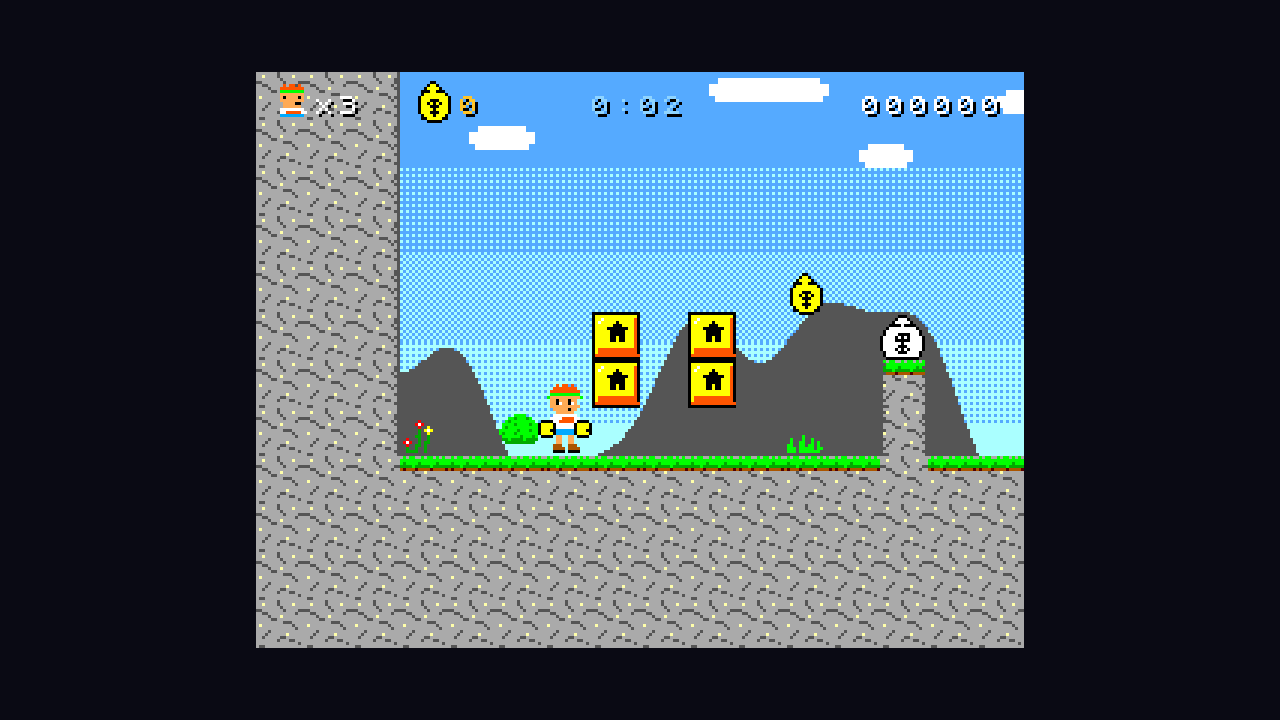
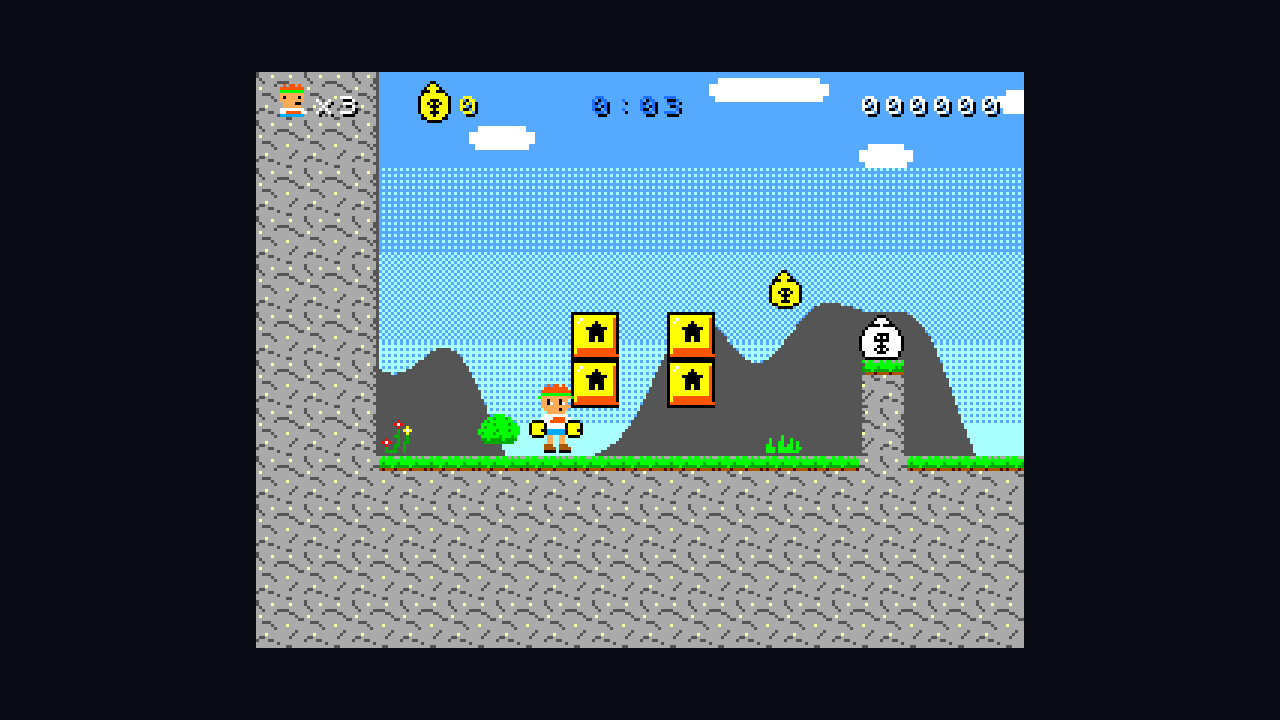
Pico Punch: levels 5-10 by design pass, engine fixes from playtests (knight reaction, safe respawn, vehicle remount, bot), SMS UI tints
Claude-Session: https://claude.ai/code/session_01UzaDEsZxm7ZvztTWUaRvfc

Changed region(s): [[0.1875, 0.0917, 0.8125, 0.9167], [0.5, 0.1222, 0.5312, 0.1833], [0.3438, 0.1222, 0.375, 0.1528]]

diff --git a/pico-punch/src/core/bot.js b/pico-punch/src/core/bot.js
@@ -13,7 +13,7 @@ export class Bot {
     this.frames++; const h = lv.hero; if (h.state === 'dead' || h.state === 'eat' || lv.state !== 'play') return;
     if (lv.deaths !== this.lastDeaths) { // renasceu: volta ao waypoint mais próximo já visitado
       this.lastDeaths = lv.deaths; let best = 0, bd = 1e9; for (let k = 0; k <= Math.min(this.i, this.path.length - 1); k++) { const w = this.path[k]; const d = Math.hypot(w.x - h.cx, w.y - h.bottom); if (d < bd) { bd = d; best = k; } }
-      this.i = bd < 48 ? best + 1 : 0; this.log.push(`respawn: retomando do waypoint ${this.i}`); this.jumpHold = 0;
+      this.i = bd < 96 ? best + 1 : 0; this.log.push(`respawn: retomando do waypoint ${this.i}`); this.jumpHold = 0;
     }
     const map = lv.map;
     // validação de colisão: o herói nunca deve estar dentro de um tile sólido
@@ -41,12 +41,12 @@ export class Bot {
     for (const e of lv.entities) { if (!e.punchable || e.remove || !e.active) continue; const ex = e.cx - h.cx, ey = e.cy - h.cy; if (Math.abs(ex) < 60 && Math.abs(ey) < 48 && (!nearest || Math.abs(ex) < Math.abs(nearest.cx - h.cx))) nearest = e; }
     if (nearest) {
       const ex = nearest.cx - h.cx; const edir = ex > 0 ? 1 : -1; const above = nearest.cy < h.y + 2;
-      if (above && Math.abs(ex) < 24) { T.left = T.right = false; if (this.punchCd <= 0) { T.up = true; T.punch = true; this.punchCd = 0.26; } threat = true; }
-      else if (Math.abs(ex) < 34 && Math.abs(nearest.cy - h.cy) < 30) { T.left = T.right = false; if (edir !== fx) { if (edir > 0) T.right = true; else T.left = true; } else if (this.punchCd <= 0) { T.punch = true; this.punchCd = 0.26; } threat = true; }
+      if (above && Math.abs(ex) < 24 && h.onGround) { T.left = T.right = false; if (this.punchCd <= 0) { T.up = true; T.punch = true; this.punchCd = 0.26; } threat = true; }
+      else if (Math.abs(ex) < 34 && Math.abs(nearest.cy - h.cy) < 30 && h.onGround) { T.left = T.right = false; if (edir !== fx) { if (edir > 0) T.right = true; else T.left = true; } else if (this.punchCd <= 0) { T.punch = true; this.punchCd = 0.26; } threat = true; }
     }
     const handX = h.cx + fx * 14, handY = h.y + 5;
     if (punchable(map.getAt(handX, handY)) || punchable(map.getAt(handX, h.y + h.h - 4))) threat = true;
-    if (threat && this.punchCd <= 0 && !nearest) { T.punch = true; this.punchCd = 0.32; }
+    if (threat && this.punchCd <= 0 && (!nearest || Math.abs(nearest.cx - h.cx) > 34)) { T.punch = true; this.punchCd = 0.32; }
     // pulo: parede, buraco, espinho, degrau, alvo acima
     if (h.onGround && this.jumpHold <= 0 && !retreating) {
       const aheadX = h.cx + dir * 12; const footY = h.bottom + 2;
@@ -58,6 +58,8 @@ export class Bot {
       const enemyClose = !!nearest && Math.abs(nearest.cx - h.cx) < 40 && !gapAhead;
       if ((wallAhead || (gapAhead && Math.abs(dx) > 10 && dy <= 24) || hazardAhead || targetAbove) && !enemyClose) { T.jump = true; this.jumpHold = targetAbove || gapAhead ? 0.32 : 0.2; }
     } else if (this.jumpHold > 0) { this.jumpHold -= dt; T.jump = true; }
+    if (T.jump && this.prevJump && h.onGround && this.jumpHold <= 0) T.jump = false; // solta por 1 frame para gerar nova borda (hit-stop pode engolir o 'pressed')
+    this.prevJump = T.jump;
     // detector de travamento: se não progride por 4 s, tenta pular
     if (Math.abs(h.x - this.lastX) < 0.5) { this.stuckT += dt; if (this.stuckT > 2.5) { T.jump = true; this.jumpHold = 0.3; if (this.stuckT > 4) { this.log.push(`travado em (${h.x.toFixed(0)},${h.y.toFixed(0)}) indo para waypoint ${this.i}`); this.stuckT = 0; } } } else this.stuckT = 0;
     this.lastX = h.x;

diff --git a/pico-punch/src/render/hud.js b/pico-punch/src/render/hud.js
@@ -7,15 +7,15 @@ export class Hud {
     this.lifeIcon = new Sprite(bank.sprite('life', 'f0')); this.lifeIcon.x = 4; this.lifeIcon.y = 2; this.root.addChild(this.lifeIcon);
     this.lives = new BitmapLine('×3', { tint: 0xffffff, shadow: true }); this.lives.x = 20; this.lives.y = 6; this.root.addChild(this.lives);
     this.bagIcon = new Sprite(bank.sprite('moneybag', 'f0')); this.bagIcon.x = 52; this.bagIcon.y = 2; this.root.addChild(this.bagIcon);
-    this.money = new BitmapLine('0', { tint: 0xffe066, shadow: true }); this.money.x = 68; this.money.y = 6; this.root.addChild(this.money);
+    this.money = new BitmapLine('0', { tint: 0xffff55, shadow: true }); this.money.x = 68; this.money.y = 6; this.root.addChild(this.money);
     this.score = new BitmapLine('000000', { tint: 0xffffff, shadow: true, align: 'right' }); this.score.y = 6; this.root.addChild(this.score);
-    this.time = new BitmapLine('0:00', { tint: 0xbfe9ff, shadow: true, align: 'center' }); this.time.y = 6; this.root.addChild(this.time);
+    this.time = new BitmapLine('0:00', { tint: 0x55aaff, shadow: true, align: 'center' }); this.time.y = 6; this.root.addChild(this.time);
     this.msg = new BitmapLine('', { tint: 0xffffff, shadow: true, align: 'center' }); this.msg.visible = false; this.root.addChild(this.msg);
-    this.msg2 = new BitmapLine('', { tint: 0xffe066, shadow: true, align: 'center' }); this.msg2.visible = false; this.root.addChild(this.msg2);
+    this.msg2 = new BitmapLine('', { tint: 0xffff55, shadow: true, align: 'center' }); this.msg2.visible = false; this.root.addChild(this.msg2);
     this.itemIcons = new Container(); this.root.addChild(this.itemIcons);
-    this.bossName = new BitmapLine('', { tint: 0xff8080, shadow: true, align: 'center', spacing: 7 }); this.bossName.visible = false; this.root.addChild(this.bossName);
-    this.bossHp = new BitmapLine('', { tint: 0xff6060, shadow: true, align: 'center' }); this.bossHp.visible = false; this.root.addChild(this.bossHp); this.bossRef = null;
-    this.brace = new BitmapLine('', { tint: 0x9ad0ff, shadow: true, align: 'right', spacing: 7 }); this.root.addChild(this.brace);
+    this.bossName = new BitmapLine('', { tint: 0xff5555, shadow: true, align: 'center', spacing: 7 }); this.bossName.visible = false; this.root.addChild(this.bossName);
+    this.bossHp = new BitmapLine('', { tint: 0xff5555, shadow: true, align: 'center' }); this.bossHp.visible = false; this.root.addChild(this.bossHp); this.bossRef = null;
+    this.brace = new BitmapLine('', { tint: 0x55aaff, shadow: true, align: 'right', spacing: 7 }); this.root.addChild(this.brace);
     this.icons = {}; for (const k of ['cape', 'ghostbuddy', 'eye']) { const sp = new Sprite(bank.sprite(k, 'f0')); sp.visible = false; this.itemIcons.addChild(sp); this.icons[k] = sp; }
   }
   layout(w, h) { this.bossName.x = Math.round(w / 2); this.bossName.y = 18; this.bossHp.x = this.bossName.x; this.bossHp.y = 28; this.brace.x = w - 6; this.brace.y = 18; this.score.x = w - 6; this.time.x = Math.round(w / 2); this.msg.x = Math.round(w / 2); this.msg.y = Math.round(h / 2 - 12); this.msg2.x = this.msg.x; this.msg2.y = this.msg.y + 14; this.itemIcons.x = w - 6 - 18; this.itemIcons.y = 16; }

diff --git a/pico-punch/src/ui/story.js b/pico-punch/src/ui/story.js
@@ -23,7 +23,7 @@ export function installStory(game) {
     const bg = new Graphics(); bg.rect(0, 0, game.viewW, game.viewH).fill(0x06061a); L.addChild(bg);
     const hero = new Sprite(game.bank.sprite('hero', kind === 'ending' ? 'eat1' : 'idle0')); hero.anchor.set(0.5, 1); hero.x = cx; hero.y = 118; hero.scale.set(game.bank.invScale * 1); L.addChild(hero);
     const l1 = line('', cx, 136, 0xffffff, 7), l2 = line('', cx, 148, 0xffffff, 7); L.addChild(l1, l2);
-    const hint = line('PULO AVANÇA   SOCO PULA TUDO', cx, 178, 0x6a7090, 7); L.addChild(hint);
+    const hint = line('PULO AVANÇA   SOCO PULA TUDO', cx, 178, 0x5555aa, 7); L.addChild(hint);
     const glow = new Graphics(); L.addChildAt(glow, 1);
     S = { pages, i: 0, t: 0, l1, l2, hero, glow, bg, onDone, kind, cx };
     if (music) game.audio?.music.play(music, { restart: true }); draw();
@@ -31,7 +31,7 @@ export function installStory(game) {
   function draw() { const p = S.pages[S.i]; S.l1.setText(p[0]); S.l2.setText(p[1]); S.t = 0; S.hero.texture = game.bank.sprite('hero', S.kind === 'ending' ? ['eat0', 'eat1', 'eat2'][S.i % 3] : ['idle0', 'punch1', 'eat0', 'victory'][S.i % 4]); }
   function update(dt) {
     S.t += dt; const inp = game.input; const g = S.glow; g.clear(); const r = 30 + Math.sin(S.t * 2) * 4;
-    g.circle(S.cx, 90, r).fill({ color: S.kind === 'ending' ? 0xffd36b : 0x3a2a6a, alpha: 0.5 }); g.circle(S.cx, 90, r * 0.6).fill({ color: S.kind === 'ending' ? 0xfff3b0 : 0x5a4a9a, alpha: 0.6 });
+    g.circle(S.cx, 90, r).fill({ color: S.kind === 'ending' ? 0xffaa00 : 0x3a2a6a, alpha: 0.5 }); g.circle(S.cx, 90, r * 0.6).fill({ color: S.kind === 'ending' ? 0xfff3b0 : 0x5a4a9a, alpha: 0.6 });
     S.hero.y = 118 + Math.round(Math.sin(S.t * 3) * 1.5);
     if (inp.pressed.jump || inp.pressed.confirm) { inp.consume('jump'); inp.consume('confirm'); game.audio?.sfx('menu'); S.i++; if (S.i >= S.pages.length) finish(); else draw(); }
     if (inp.pressed.back || inp.pressed.punch) { inp.consume('back'); inp.consume('punch'); finish(); }
@@ -41,7 +41,7 @@ export function installStory(game) {
   function credits() {
     game.setState('story'); const L = game.menuLayer; L.removeChildren(); const cx = Math.round(game.viewW / 2);
     const bg = new Graphics(); bg.rect(0, 0, game.viewW, game.viewH).fill(0x06061a); L.addChild(bg);
-    const lines = CREDITS.map((t, i) => { const l = line(t, cx, 200 + i * 12, i === 0 ? 0xffd36b : 0xffffff, 7); L.addChild(l); return l; });
+    const lines = CREDITS.map((t, i) => { const l = line(t, cx, 200 + i * 12, i === 0 ? 0xffaa00 : 0xffffff, 7); L.addChild(l); return l; });
     const hero = new Sprite(game.bank.sprite('hero', 'victory')); hero.anchor.set(0.5, 1); hero.x = cx; hero.y = 200 + CREDITS.length * 12 + 40; hero.scale.set(game.bank.invScale); L.addChild(hero);
     S = { credits: true, t: 0, lines, hero, update: (dt) => { S.t += dt; const off = S.t * 18; lines.forEach((l, i) => { l.y = 200 + i * 12 - off; }); hero.y = 200 + CREDITS.length * 12 + 40 - off; if ((game.input.pressed.jump || game.input.pressed.confirm) && S.t > 2) { game.input.consume('jump'); S = null; game.level = null; game.setState('title'); } return true; } };
   }

diff --git a/pico-punch/src/ui/duel.js b/pico-punch/src/ui/duel.js
@@ -17,13 +17,13 @@ export function installDuel(game) {
     if (game.mode === 'hd') level.camera.targetZoom = 1.12;
     game.audio?.music.play('duel');
     const L = game.menuLayer; L.removeChildren(); const cx = Math.round(game.viewW / 2);
-    const g = new Graphics(); g.roundRect(cx - 120, 8, 240, 112, 4).fill({ color: 0x120c22, alpha: 0.92 }).stroke({ color: 0xffd36b, width: 1 }); L.addChild(g);
-    const title = line('DUELO DE MÃOS', cx, 14, 0xffd36b); const sub = line(bd.name + ' - MELHOR DE 3', cx, 26, 0x9aa4c8, 'center', 7); L.addChild(title, sub);
+    const g = new Graphics(); g.roundRect(cx - 120, 8, 240, 112, 4).fill({ color: 0x120c22, alpha: 0.92 }).stroke({ color: 0xffaa00, width: 1 }); L.addChild(g);
+    const title = line('DUELO DE MÃOS', cx, 14, 0xffaa00); const sub = line(bd.name + ' - MELHOR DE 3', cx, 26, 0xaaaaff, 'center', 7); L.addChild(title, sub);
     const heroS = new Sprite(game.bank.sprite('hero', 'idle0')); heroS.anchor.set(0.5, 1); heroS.x = cx - 80; heroS.y = 96; heroS.scale.set(game.bank.invScale); L.addChild(heroS);
     const bossS = new Sprite(game.bank.sprite(def.type, 'f0')); bossS.anchor.set(0.5, 1); bossS.x = cx + 80; bossS.y = 100; bossS.scale.set(-game.bank.invScale, game.bank.invScale); L.addChild(bossS);
     const heroHand = new Sprite(); heroHand.anchor.set(0.5); heroHand.x = cx - 40; heroHand.y = 70; heroHand.scale.set(game.bank.invScale); heroHand.visible = false; L.addChild(heroHand);
     const bossHand = new Sprite(); bossHand.anchor.set(0.5); bossHand.x = cx + 40; bossHand.y = 70; bossHand.scale.set(-game.bank.invScale, game.bank.invScale); bossHand.visible = false; L.addChild(bossHand);
-    const score = line('0 × 0', cx, 42, 0xffffff); const msg = line('', cx, 56, 0xfff3a0); const hint = line('← PEDRA   ↑ PAPEL   → TESOURA', cx, 108, 0x9aa4c8, 'center', 7); L.addChild(score, msg, hint);
+    const score = line('0 × 0', cx, 42, 0xffffff); const msg = line('', cx, 56, 0xffff55); const hint = line('← PEDRA   ↑ PAPEL   → TESOURA', cx, 108, 0xaaaaff, 'center', 7); L.addChild(score, msg, hint);
     const sel = [0, 1, 2].map((i) => { const s = new Sprite(game.bank.sprite(HANDS[i], 'f0')); s.anchor.set(0.5, 1); s.x = cx - 24 + i * 24; s.y = 104; s.scale.set(game.bank.invScale * 0.6); s.alpha = 0.45; L.addChild(s); return s; });
     D = { level, def, bd, t: 0, phase: 'count', beat: 0, wins: 0, losses: 0, heroPick: 1, bossPick: 0, ui: { heroS, bossS, heroHand, bossHand, score, msg, sel, title }, eye: level.hero.items.eye, tellShown: false, history: [] };
     D.bossPick = choose(D); D.t = 0;

diff --git a/pico-punch/src/ui/shop.js b/pico-punch/src/ui/shop.js
@@ -19,12 +19,12 @@ export function installShop(game) {
   let ui = null;
   const build = (level, door) => {
     const L = game.menuLayer; L.removeChildren(); const cx = Math.round(game.viewW / 2); const W = 232, H = 170; const x0 = cx - W / 2, y0 = 10;
-    const g = new Graphics(); g.roundRect(x0, y0, W, H, 4).fill({ color: 0x14102a, alpha: 0.94 }).stroke({ color: 0xffd36b, width: 1 }); L.addChild(g);
-    const title = new BitmapLine('LOJA DA VILA', { tint: 0xffd36b, shadow: true, align: 'center' }); title.x = cx; title.y = y0 + 6; L.addChild(title);
-    const money = new BitmapLine('', { tint: 0xffe066, shadow: true, align: 'right' }); money.x = x0 + W - 8; money.y = y0 + 6; L.addChild(money);
-    const desc = new BitmapLine('', { tint: 0xbfc8e8, shadow: true, align: 'center', spacing: 7 }); desc.x = cx; desc.y = y0 + H - 30; L.addChild(desc);
-    const desc2 = new BitmapLine('', { tint: 0xbfc8e8, shadow: true, align: 'center', spacing: 7 }); desc2.x = cx; desc2.y = y0 + H - 20; L.addChild(desc2);
-    const hint = new BitmapLine('PULO COMPRA   SOCO SAI', { tint: 0x9aa4c8, shadow: true, align: 'center', spacing: 7 }); hint.x = cx; hint.y = y0 + H - 9; L.addChild(hint);
+    const g = new Graphics(); g.roundRect(x0, y0, W, H, 4).fill({ color: 0x14102a, alpha: 0.94 }).stroke({ color: 0xffaa00, width: 1 }); L.addChild(g);
+    const title = new BitmapLine('LOJA DA VILA', { tint: 0xffaa00, shadow: true, align: 'center' }); title.x = cx; title.y = y0 + 6; L.addChild(title);
+    const money = new BitmapLine('', { tint: 0xffff55, shadow: true, align: 'right' }); money.x = x0 + W - 8; money.y = y0 + 6; L.addChild(money);
+    const desc = new BitmapLine('', { tint: 0xaaaaff, shadow: true, align: 'center', spacing: 7 }); desc.x = cx; desc.y = y0 + H - 30; L.addChild(desc);
+    const desc2 = new BitmapLine('', { tint: 0xaaaaff, shadow: true, align: 'center', spacing: 7 }); desc2.x = cx; desc2.y = y0 + H - 20; L.addChild(desc2);
+    const hint = new BitmapLine('PULO COMPRA   SOCO SAI', { tint: 0xaaaaff, shadow: true, align: 'center', spacing: 7 }); hint.x = cx; hint.y = y0 + H - 9; L.addChild(hint);
     const icon = new Sprite(); icon.x = x0 + 12; icon.y = y0 + 22; icon.scale.set(game.bank.invScale); L.addChild(icon);
     const p = game.save.progress; const bought = { vehicle: null, capsule: false };
     const owned = (it) => (it.id === 'cape' || it.id === 'ghostbuddy' || it.id === 'eye') && p.items[it.id];

diff --git a/pico-punch/src/ui/ui.js b/pico-punch/src/ui/ui.js
@@ -7,7 +7,7 @@ import { installShop } from './shop.js';
 import { installDuel } from './duel.js';
 import { installStory } from './story.js';
 
-const COL = { title: 0xffd36b, text: 0xffffff, dim: 0x9aa4c8, sel: 0xfff3a0, bad: 0xff6b6b, ok: 0x8cf58c };
+const COL = { title: 0xffaa00, text: 0xffffff, dim: 0xaaaaff, sel: 0xffff55, bad: 0xff5555, ok: 0x55ff55 };
 
 export class Menu {
   constructor(game, items, opts = {}) {
@@ -126,7 +126,7 @@ export function installUI(game) {
     const t = Math.floor(lv.time); const best = game.save.progress.bestTimes[lv.id];
     L.addChild(line(`TEMPO  ${Math.floor(t / 60)}:${String(t % 60).padStart(2, '0')}`, center(), 76));
     L.addChild(line(`PLACAR ${lv.score}`, center(), 88));
-    L.addChild(line(`DINHEIRO ${lv.money}  (+${lv.money - lv.moneyStart})`, center(), 100, 0xffe066));
+    L.addChild(line(`DINHEIRO ${lv.money}  (+${lv.money - lv.moneyStart})`, center(), 100, 0xffff55));
     L.addChild(line(`INIMIGOS ${lv.defeated}   MORTES ${lv.deaths}`, center(), 112, COL.dim));
     L.addChild(line(game.levelIndex + 1 < LEVELS.length ? 'PULO: PRÓXIMA FASE' : 'PULO: CONTINUAR', center(), 130, COL.ok));
   }

diff --git a/pico-punch/src/world/level.js b/pico-punch/src/world/level.js
@@ -101,10 +101,10 @@ export class Level {
     const p = this.game.save.progress; p.lives--;
     if (p.lives < 0) { this.game.gameOver(this); return; }
     const cp = this.checkpoint; const sp = this.map.spawn;
-    if (cp) this.hero.respawnAt(cp.x, cp.y); else this.hero.respawnAt(sp.x * TILE + 3, (sp.y + 1) * TILE - 22);
+    if (cp) this.hero.respawnAt(cp.x, cp.y, this.map); else this.hero.respawnAt(sp.x * TILE + 3, (sp.y + 1) * TILE - 22, this.map);
     // reinicia inimigos próximos ao ponto de respawn? mantemos o estado, mas removemos fantasmas
     for (const e of this.entities) if (e instanceof Ghost || e.type === 'ghostbuddy') e.remove = true;
-    this.applyInventory();
+    this.applyInventory(); if (this.vehicleAtStart) mountVehicle(this, this.vehicleAtStart);
     this.state = 'play'; this.camera.snapTo(this.hero, this.map.pixelW, this.map.pixelH); this.game.audio?.music.play(this.json.music, { restart: true }); this.game.iris = { t: 0, dir: 1, dur: 0.6 };
   }
   // ----- Passo fixo -----------------------------------------------------------------------------

diff --git a/pico-punch/src/world/entities/hero.js b/pico-punch/src/world/entities/hero.js
@@ -197,7 +197,8 @@ export class Hero extends Entity {
     else this.frame = (Math.floor(this.idleT * 1.6) % 2) ? 'idle2' : 'idle0';
   }
   /** Hitbox da cabeça para itens etc. */
-  respawnAt(x, y) {
-    this.x = x; this.y = y; this.vx = 0; this.vy = 0; this.state = 'normal'; this.frame = 'idle0'; this.rotation = 0; this.invuln = 1.5; this.crouch = false; this.h = STAND_H; this.punch = 0; this.vehicle = null; this.scaleX = this.scaleY = 1; this.savePrev();
+  respawnAt(x, y, map = null) {
+    this.x = x; this.y = y;
+    if (map) { let g = 0; const inside = () => map.anyInRect(this.x + 1, this.y + 1, this.w - 2, this.h - 2, (t) => isSolidType(t)); while (inside() && g++ < 8) this.x += 4; g = 0; while (inside() && g++ < 8) { this.x -= 4; this.y -= 4; } } this.vx = 0; this.vy = 0; this.state = 'normal'; this.frame = 'idle0'; this.rotation = 0; this.invuln = 1.5; this.crouch = false; this.h = STAND_H; this.punch = 0; this.vehicle = null; this.scaleX = this.scaleY = 1; this.savePrev();
   }
 }

diff --git a/pico-punch/src/world/entities/enemies.js b/pico-punch/src/world/entities/enemies.js
@@ -157,7 +157,11 @@ export class Knight extends Enemy {
     if (hero.punchDir === 'fwd' && !fromBehind) { level.fx.sparks(this.cx - this.dir * 6, this.cy, 4); level.sfx('clank'); this.vx = -hero.facing * 20; return true; }
     return super.onPunch(level, hero);
   }
-  update(dt, level) { super.update(dt, level); this.animate(4); const hero = level.hero; if (Math.abs(hero.cx - this.cx) < 120 && Math.abs(hero.cy - this.cy) < 24) this.dir = sign(hero.cx - this.cx) || this.dir; this.patrol(dt, level, 30, true); }
+  update(dt, level) {
+    super.update(dt, level); this.animate(4); const hero = level.hero; this.turnCd = (this.turnCd ?? 0) - dt;
+    if (this.turnCd <= 0 && Math.abs(hero.cx - this.cx) < 120 && Math.abs(hero.cy - this.cy) < 24) { const want = sign(hero.cx - this.cx) || this.dir; if (want !== this.dir) { this.dir = want; this.turnCd = 1.4; } }
+    this.patrol(dt, level, 30, true);
+  }
 }
 
 export class Bee extends Enemy {

diff --git a/pico-punch/src/world/entities/vehicles.js b/pico-punch/src/world/entities/vehicles.js
@@ -43,7 +43,7 @@ class Moto extends Vehicle {
     if (hero.vy < 0 && !inp.held.jump) hero.vy *= 0.9;
     hero.vy = Math.min(hero.vy + GRAVITY * dt, MAX_FALL);
     // quebra o que está à frente antes de colidir
-    this.smash(level, hero, hero.facing > 0 ? hero.x + hero.w : hero.x - 6, hero.y - 6, 6, hero.h + 6, true);
+    this.smash(level, hero, hero.facing > 0 ? hero.x + hero.w : hero.x - 6, hero.y - 14, 6, hero.h + 14, true);
     moveBody(hero, map, dt);
     if (hero.hitWall) { // bateu em parede: moto destruída
       level.fx.sparks(hero.facing > 0 ? hero.right : hero.x, hero.cy, 12); level.sfx('crash'); level.camera.shake(5, 0.3); level.flash(0.5);

diff --git a/pico-punch/src/render/scene.js b/pico-punch/src/render/scene.js
@@ -121,7 +121,7 @@ export class Scene {
   }
   _syncText(e, alpha, retro) {
     let v = this.textViews.get(e.id);
-    if (!v) { v = new BitmapLine(e.text, { tint: 0xfff3a0, shadow: true, align: 'center' }); this.frontLayer.addChild(v); this.textViews.set(e.id, v); }
+    if (!v) { v = new BitmapLine(e.text, { tint: 0xffff55, shadow: true, align: 'center' }); this.frontLayer.addChild(v); this.textViews.set(e.id, v); }
     let x = e.px + (e.x - e.px) * alpha, y = e.py + (e.y - e.py) * alpha; if (retro) { x = Math.round(x); y = Math.round(y); }
     v.x = x; v.y = y - 8; v.alpha = e.life < 0.3 ? e.life / 0.3 : 1;
   }

diff --git a/pico-punch/tools/level4.py b/pico-punch/tools/level4.py
@@ -51,7 +51,7 @@ m2 = [
 ".==========....========.......",  # 6  telhados: casa 1 cols 31–40; casa 2 cols 45–52
 "..########.....########.......",  # 7  tetos: casa 1 cols 32–39; casa 2 cols 45–52
 "....$.........##.......#......",  # 8  saco sob a arcada; caixote alto (col 44) + pilar (col 45); pilar col 52
-".............###......#...a.C.",  # 9  escadinha cols 43–44; caranguejo col 56; sino col 58
+".............###......#.....C.",  # 9  escadinha cols 43–44; sino col 58
 "##############################",  # 10
 "##############################",  # 11
 ]
@@ -80,9 +80,9 @@ m3 = [
 "............===...............",  # 4  telhado da torre (cols 72–74)
 "............##................",  # 5  torre (cols 72–73, linhas 5–9)
 "........====##................",  # 6  telhado da casa 3 (cols 68–71)
-"..SSS...######................",  # 7  estrelas (62–64); teto da casa 3 (68–71)
+"SSS.....######................",  # 7  estrelas (60–62, longe da escadinha); teto da casa 3 (68–71)
 ".......##...##................",  # 8  caixote alto (67) + pilar (68)
-"......###...##....$$$$$...a...",  # 9  escadinha 66–67; sacos 78–82; caranguejo 86
+"...a..###...##....$$$$$...a...",  # 9  caranguejo 63 (longe da queda do telhado); escadinha 66–67; sacos 78–82; caranguejo 86
 "##############################",  # 10
 "##############################",  # 11
 ]
@@ -96,7 +96,7 @@ d3 = [
 "..............................",
 "..............................",
 ".........w.W..................",
-"FF...t..........p.......f...FF",
+"...F.t..........p.......f...FF",
 "..............................",
 "..............................",
 ]
@@ -142,7 +142,7 @@ m5 = [
 "..............................",  # 4
 "....................$$$.......",  # 5  sacos no telhado da casa 6
 "..................=========...",  # 6  telhado da casa 6 (cols 138–146)
-"....?SS...........#########...",  # 7  ? coração (col 124) + estrelas; teto da casa 6
+".?SS..............#########...",  # 7  ? coração (col 121) + estrelas; teto da casa 6
 "........&........##.......#...",  # 8  saco grande sobre o banco; caixote alto (137) + pilar (138); pilar 146
 "........##...a..###.......#...",  # 9  banco cols 128–129; caranguejo 133; escadinha 136–137
 "##############################",  # 10
@@ -208,7 +208,7 @@ assert sum(r.count('P') for r in rows) == 1 and sum(r.count('E') for r in rows) 
 
 def find(ch):
     return [(x, y) for y, r in enumerate(rows) for x, c in enumerate(r) if c == ch]
-assert find('?') == [(124, 7)], find('?')
+assert find('?') == [(121, 7)], find('?')
 assert find('D') == [(11, 9)]
 # porta da loja: 2×2 tiles + 2 acima e 1 à direita livres
 for (dx, dy) in [(0, 8), (1, 8), (1, 9), (0, 7), (1, 7), (2, 9), (2, 8)]:
@@ -221,7 +221,7 @@ for y, r in enumerate(decor):
 level = {
   "id": "l4", "name": "Vila Caramelo", "theme": "village", "music": "village", "time": "sunset",
   "map": rows, "decor": decor,
-  "qcontents": { "124,7": "heart" },
+  "qcontents": { "121,7": "heart" },
   "entities": [],
   "cameraZones": [],
   # Caminho do bot: pela rua, subindo as escadinhas e cruzando os telhados das casas fechadas (e a torre).
